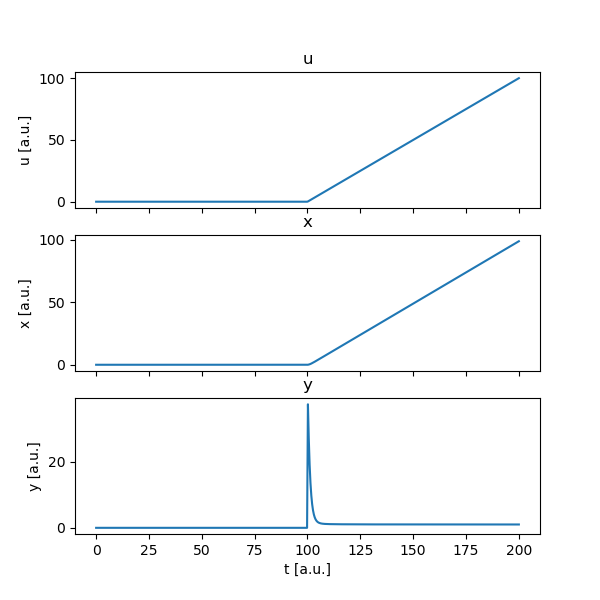
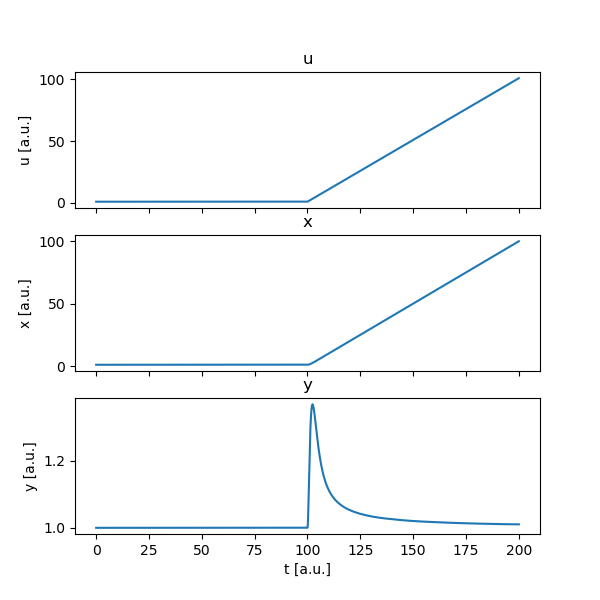
fixed plots for simplified system for different u functions

diff --git a/plot_xy.py b/plot_xy.py
@@ -3,8 +3,8 @@ from xy_ode import derivatives, uFuns
 from scipy.integrate import solve_ivp
 import numpy as np
 
-INITIAL_VALUES = np.array([0.0001, 0])
-NUMBER_OF_POINTS = 600
+INITIAL_VALUES = np.array([1, 1])
+NUMBER_OF_POINTS = 10000
 TIME_FRAME1 = (0.0, 10.0)
 TIME_FRAME2 = (0.0, 200.0)
 
@@ -17,7 +17,7 @@ def plot_func(func, time_frame, sub_plot):
 
 def plot_ode(deriv, time_frame, sub_plots, u_func):
     time_grid = np.linspace(time_frame[0], time_frame[1], NUMBER_OF_POINTS)
-    result = solve_ivp(deriv, time_frame, INITIAL_VALUES, t_eval=time_grid)
+    result = solve_ivp(deriv, time_frame, INITIAL_VALUES, t_eval=time_grid, method='LSODA')
     for i, sub_plot in enumerate(sub_plots):
         if i == 0:
             plot_func(u_func, time_frame, sub_plot)
@@ -37,8 +37,8 @@ def plot_ode(deriv, time_frame, sub_plots, u_func):
 
 
 fig, plots = plt.subplots(nrows=3, ncols=1, sharex=True, sharey=False, figsize=(6, 6))
-# plot_ode(derivatives[0], TIME_FRAME1, plots, uFuns[0])  # step function
+plot_ode(derivatives[0], TIME_FRAME1, plots, uFuns[0])  # step function
 # plot_ode(derivatives[1], TIME_FRAME2, plots, uFuns[1])  # linear
-plot_ode(derivatives[2], TIME_FRAME1, plots, uFuns[2])  # exponential
-fig.savefig('xxx')
+# plot_ode(derivatives[2], TIME_FRAME1, plots, uFuns[2])  # exponential
+fig.savefig('u_step')
 plt.show()

diff --git a/xy_ode.py b/xy_ode.py
@@ -12,23 +12,23 @@ t_event2 = 100
 
 def u1(t):
     if t < t_event1:
-        return 0
-    else:
         return 1
+    else:
+        return 2
 
 
 def u2(t):
     if t < t_event2:
-        return 0
+        return 1
     else:
-        return t-100
+        return 1+t-t_event2
 
 
 def u3(t):
     if t < t_event1:
-        return 0
+        return 1
     else:
-        return np.exp(t)
+        return np.exp(t-t_event1)
 
 
 def deriv1(t, v):
